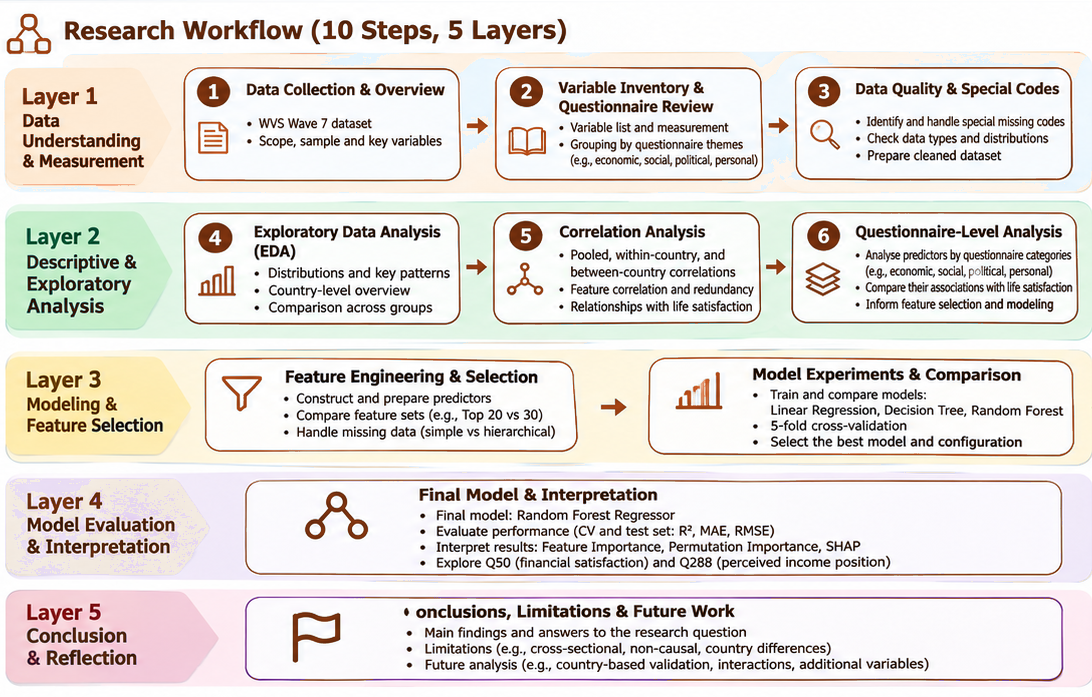
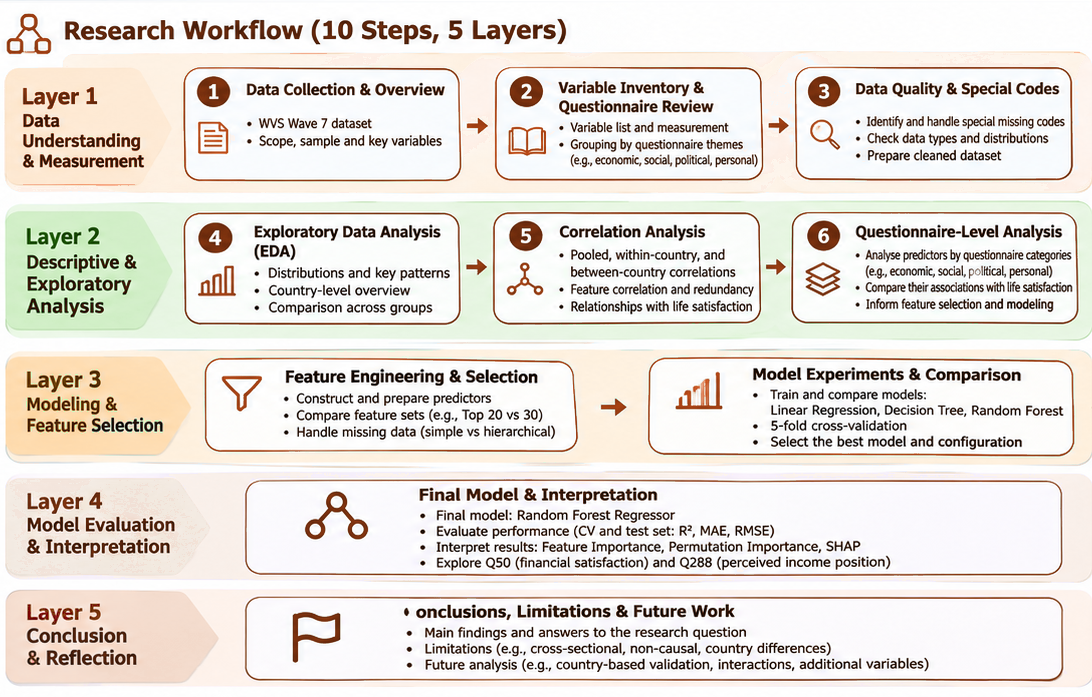
More visuals updates

diff --git a/app.py b/app.py
@@ -658,12 +658,8 @@ elif page == "Extra Insights":
                  "The main analysis used machine learning to explore how economic, social, and personal factors predict life satisfaction. These additional analyses are descriptive and do not train a new machine learning model.")
     section_head("01 · Age patterns", "Does life satisfaction change with age?",
                  "Weighted mean responses across age groups for life satisfaction (Q49), financial satisfaction (Q50), and perceived freedom and control (Q48).")
-    age_df = load_chart_data("age_patterns_data.csv")
-    age_long = age_df.melt(id_vars="age_group", value_vars=["Q49", "Q50", "Q48"], var_name="measure", value_name="weighted_mean")
-    age_long["measure"] = age_long["measure"].map({"Q49":"Life satisfaction (Q49)","Q50":"Financial satisfaction (Q50)","Q48":"Freedom & control (Q48)"})
-    age_fig = px.line(age_long, x="age_group", y="weighted_mean", color="measure", markers=True, labels={"age_group":"Age group","weighted_mean":"Weighted mean response","measure":"Survey item"})
-    show_plotly(age_fig, height=430)
-    st.caption("Weighted average responses by age group. Hover to compare the three survey items.")
+    show_zoomable_image(ASSET_DIR / "age_patterns_three_outcomes.png", "Age patterns across three WVS self-reported outcomes", component_height=500)
+    st.caption("Weighted average responses by age group for life satisfaction, financial satisfaction, and perceived freedom.")
     st.markdown(
         "<div class='content-card'><p style='color:#786B63;line-height:1.7'>Life satisfaction and financial satisfaction show relatively lower means around midlife and higher means among older respondents. Perceived freedom and control follows a different pattern, suggesting that dimensions of subjective wellbeing may not move together across age groups.</p><div class='warm-note'>This raises a question: is the relationship between age and life satisfaction more complex than a simple linear trend?</div></div>",
         unsafe_allow_html=True,
@@ -671,10 +667,7 @@ elif page == "Extra Insights":
 
     section_head("02 · Gender differences", "Does the gender gap depend on age?",
                  "The chart shows the female-minus-male difference in weighted mean Q49 within each age group.")
-    gender_age = load_chart_data("gender_gap_age_data.csv")
-    gap_fig = px.bar(gender_age, x="age_group", y="gap_female_minus_male", hover_data={"female_mean":":.2f","male_mean":":.2f","n_female":True,"n_male":True}, labels={"age_group":"Age group","gap_female_minus_male":"Female − male weighted mean (Q49)"})
-    gap_fig.add_hline(y=0, line_dash="dash", line_color="#8C7568")
-    show_plotly(gap_fig, height=400)
+    show_zoomable_image(ASSET_DIR / "gender_gap_by_age.png", "Female minus male weighted mean life satisfaction by age group", component_height=450)
     st.caption("Positive values mean women report a higher average; negative values mean men do.")
     st.markdown(
         "<div class='content-card'><p style='color:#786B63;line-height:1.7'>The overall difference in life satisfaction between women and men is small. However, the direction of the difference varies across age groups. Women report slightly higher average life satisfaction in several younger and middle-age groups, while men report higher averages in the older groups.</p><div class='warm-note'>Rather than suggesting a universal gender difference, this pattern points to possible variation across different stages of life.</div></div>",
@@ -683,11 +676,8 @@ elif page == "Extra Insights":
 
     section_head("03 · Across countries", "Are gender differences consistent across countries?",
                  "Each bar represents the difference between women’s and men’s weighted mean Q49 within a country or region.")
-    country_gap = load_chart_data("country_summary_data.csv").dropna(subset=["gender_gap"]).sort_values("gender_gap")
-    gap_country_fig = px.bar(country_gap, x="gender_gap", y="country", orientation="h", hover_data={"code":True,"female_mean":":.2f","male_mean":":.2f","n":True}, labels={"gender_gap":"Female − male weighted mean (Q49)","country":"Country / region"})
-    gap_country_fig.add_vline(x=0, line_dash="dash", line_color="#8C7568")
-    show_plotly(gap_country_fig, height=1200)
-    st.caption("Each bar shows the within-country female-minus-male difference. Hover for country code and group means.")
+    show_zoomable_image(ASSET_DIR / "country_gender_gap_full_names.png", "Country-level gender gap in life satisfaction; positive values indicate higher female means", component_height=700)
+    st.caption("Each bar shows the within-country female-minus-male difference in weighted life-satisfaction averages.")
     st.markdown(
         "<div class='content-card'><p style='color:#786B63;line-height:1.7'>The gender gap is not uniform across countries and regions. In some places, women report higher average life satisfaction; in others, men report higher averages. A pooled global average can therefore conceal meaningful differences between country-level patterns.</p><div class='warm-note'>Positive values indicate a higher female mean; negative values indicate a higher male mean. The chart shows within-country gender gaps, not a ranking of countries by life satisfaction.</div></div>",
         unsafe_allow_html=True,
